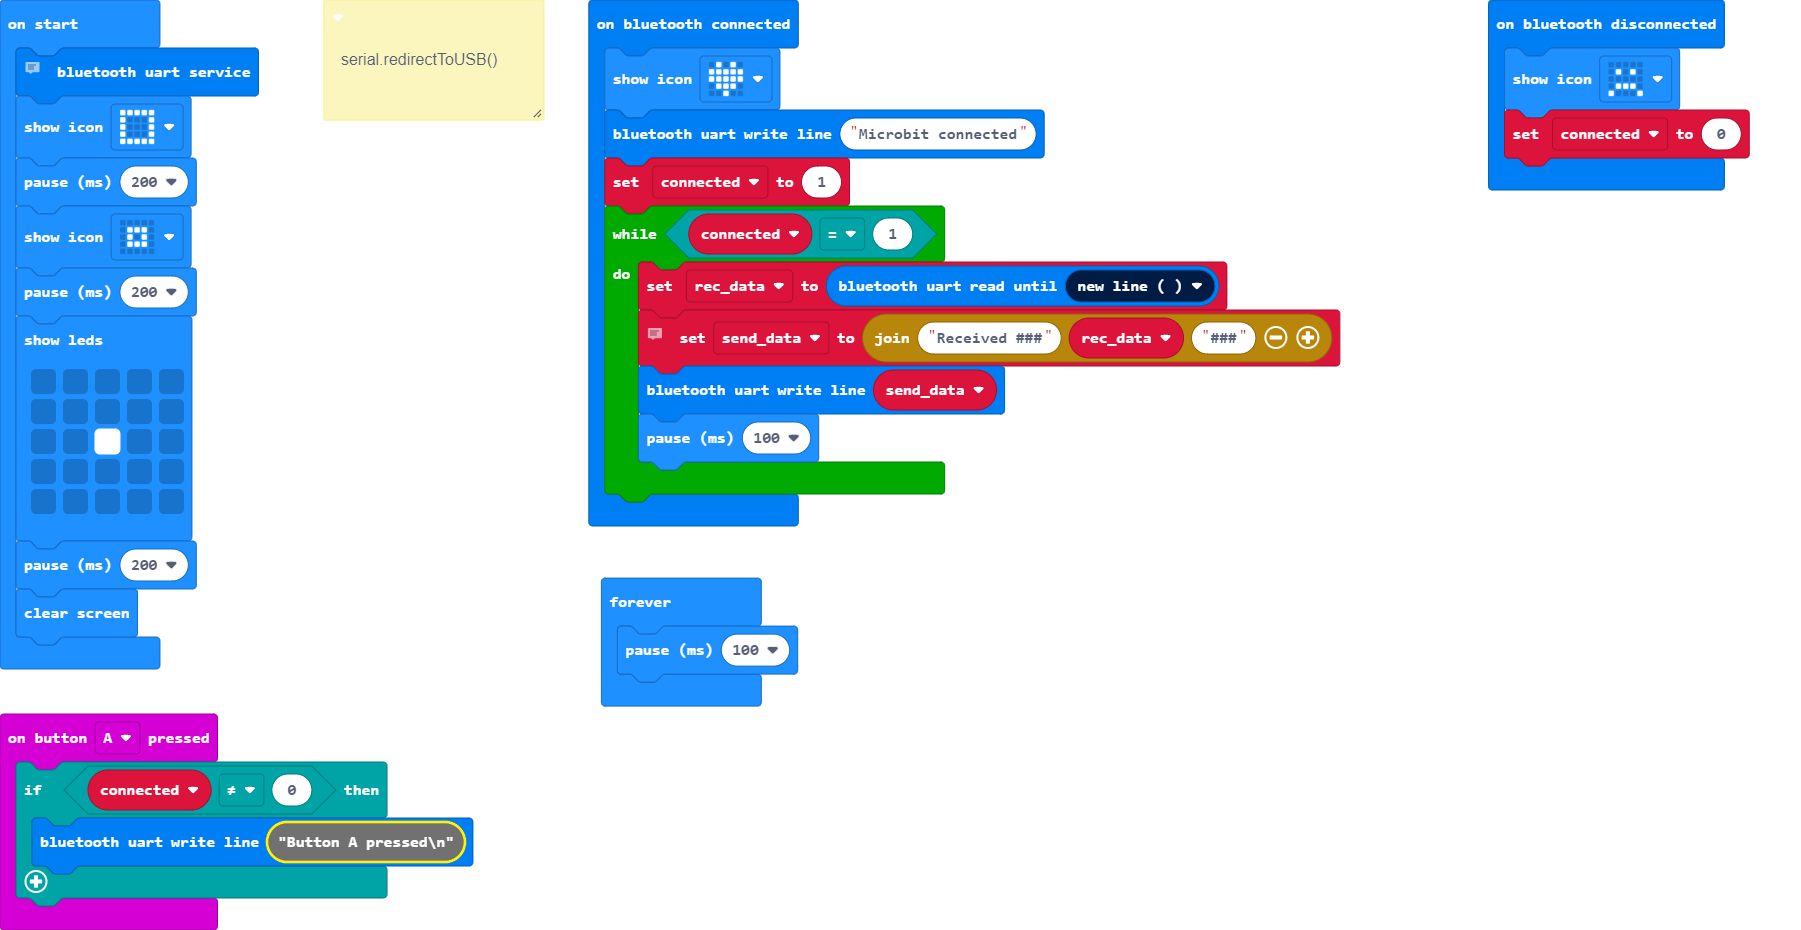
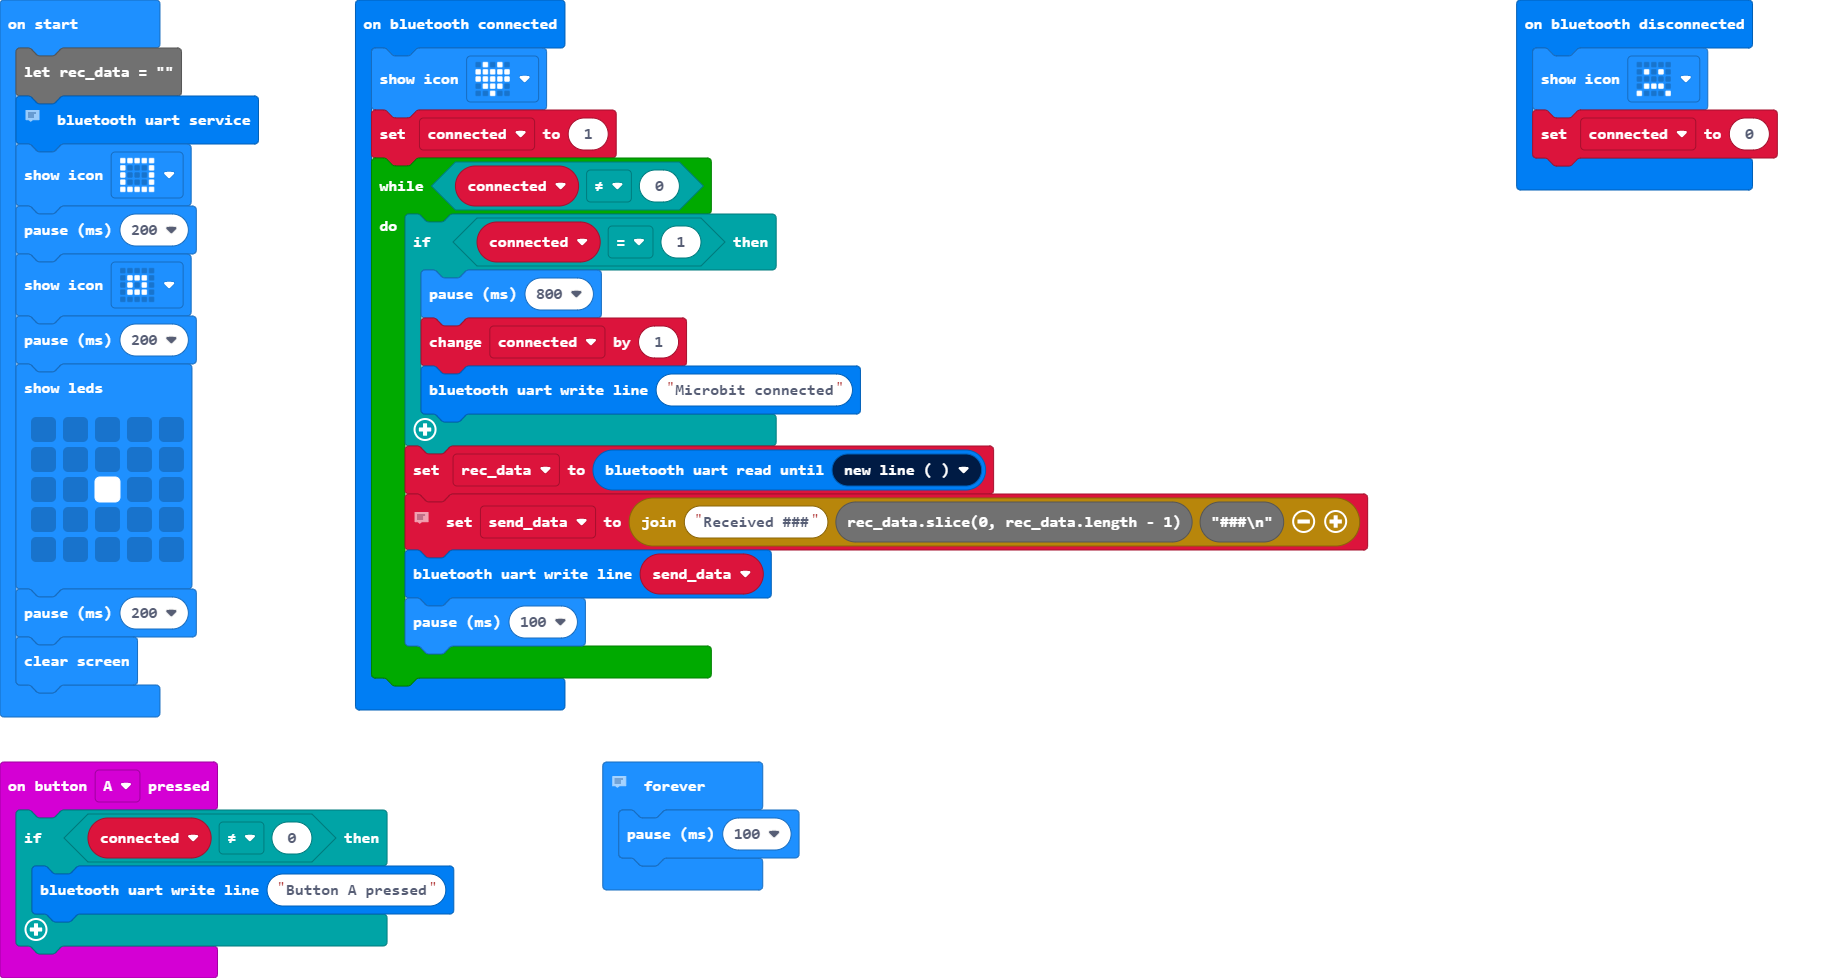
Update main.blocks, main.ts

diff --git a/main.ts b/main.ts
@@ -1,43 +1,39 @@
-bluetooth.onBluetoothConnected(function on_bluetooth_connected() {
-    
+bluetooth.onBluetoothConnected(function () {
     basic.showIcon(IconNames.Heart)
-    basic.pause(200)
-    bluetooth.uartWriteLine("Microbit connected")
     connected = 1
-    while (connected == 1) {
+    while (connected != 0) {
+        if (connected == 1) {
+            basic.pause(800)
+            connected += 1
+            bluetooth.uartWriteLine("Microbit connected")
+        }
         rec_data = bluetooth.uartReadUntil(serial.delimiters(Delimiters.NewLine))
-        //  serial.writeString(rec_data)
-        //  serial.writeLine("")
-        //  serial.writeValue("status", connected)
-        send_data = "Received ###" + rec_data.slice(0, rec_data.length - 1) + "###"
+        // serial.writeString(rec_data)
+        // serial.writeLine("")
+        // serial.writeValue("status", connected)
+        send_data = "###" + rec_data.slice(0, rec_data.length - 1) + "###"
         bluetooth.uartWriteLine(send_data)
-        basic.pause(100)
+        basic.pause(300)
     }
 })
-bluetooth.onBluetoothDisconnected(function on_bluetooth_disconnected() {
-    
+bluetooth.onBluetoothDisconnected(function () {
     basic.showIcon(IconNames.Sad)
     connected = 0
 })
-input.onButtonPressed(Button.A, function on_button_pressed_a() {
+input.onButtonPressed(Button.A, function () {
     if (connected != 0) {
         bluetooth.uartWriteLine("Button A pressed")
     }
-    
-})
-/** serial.redirectToUSB() */
-basic.forever(function on_forever() {
-    basic.pause(100)
 })
 let send_data = ""
-let rec_data = ""
 let connected = 0
-//  bluetooth.startAccelerometerService()
-//  bluetooth.startButtonService()
-//  bluetooth.startIOPinService()
-//  bluetooth.startLEDService()
-//  bluetooth.startTemperatureService()
-//  bluetooth.startMagnetometerService()
+let rec_data = ""
+// bluetooth.startAccelerometerService()
+// bluetooth.startButtonService()
+// bluetooth.startIOPinService()
+// bluetooth.startLEDService()
+// bluetooth.startTemperatureService()
+// bluetooth.startMagnetometerService()
 bluetooth.startUartService()
 basic.showIcon(IconNames.Square)
 basic.pause(200)
@@ -52,3 +48,7 @@ basic.showLeds(`
     `)
 basic.pause(200)
 basic.clearScreen()
+// serial.redirectToUSB()
+basic.forever(function () {
+    basic.pause(100)
+})
